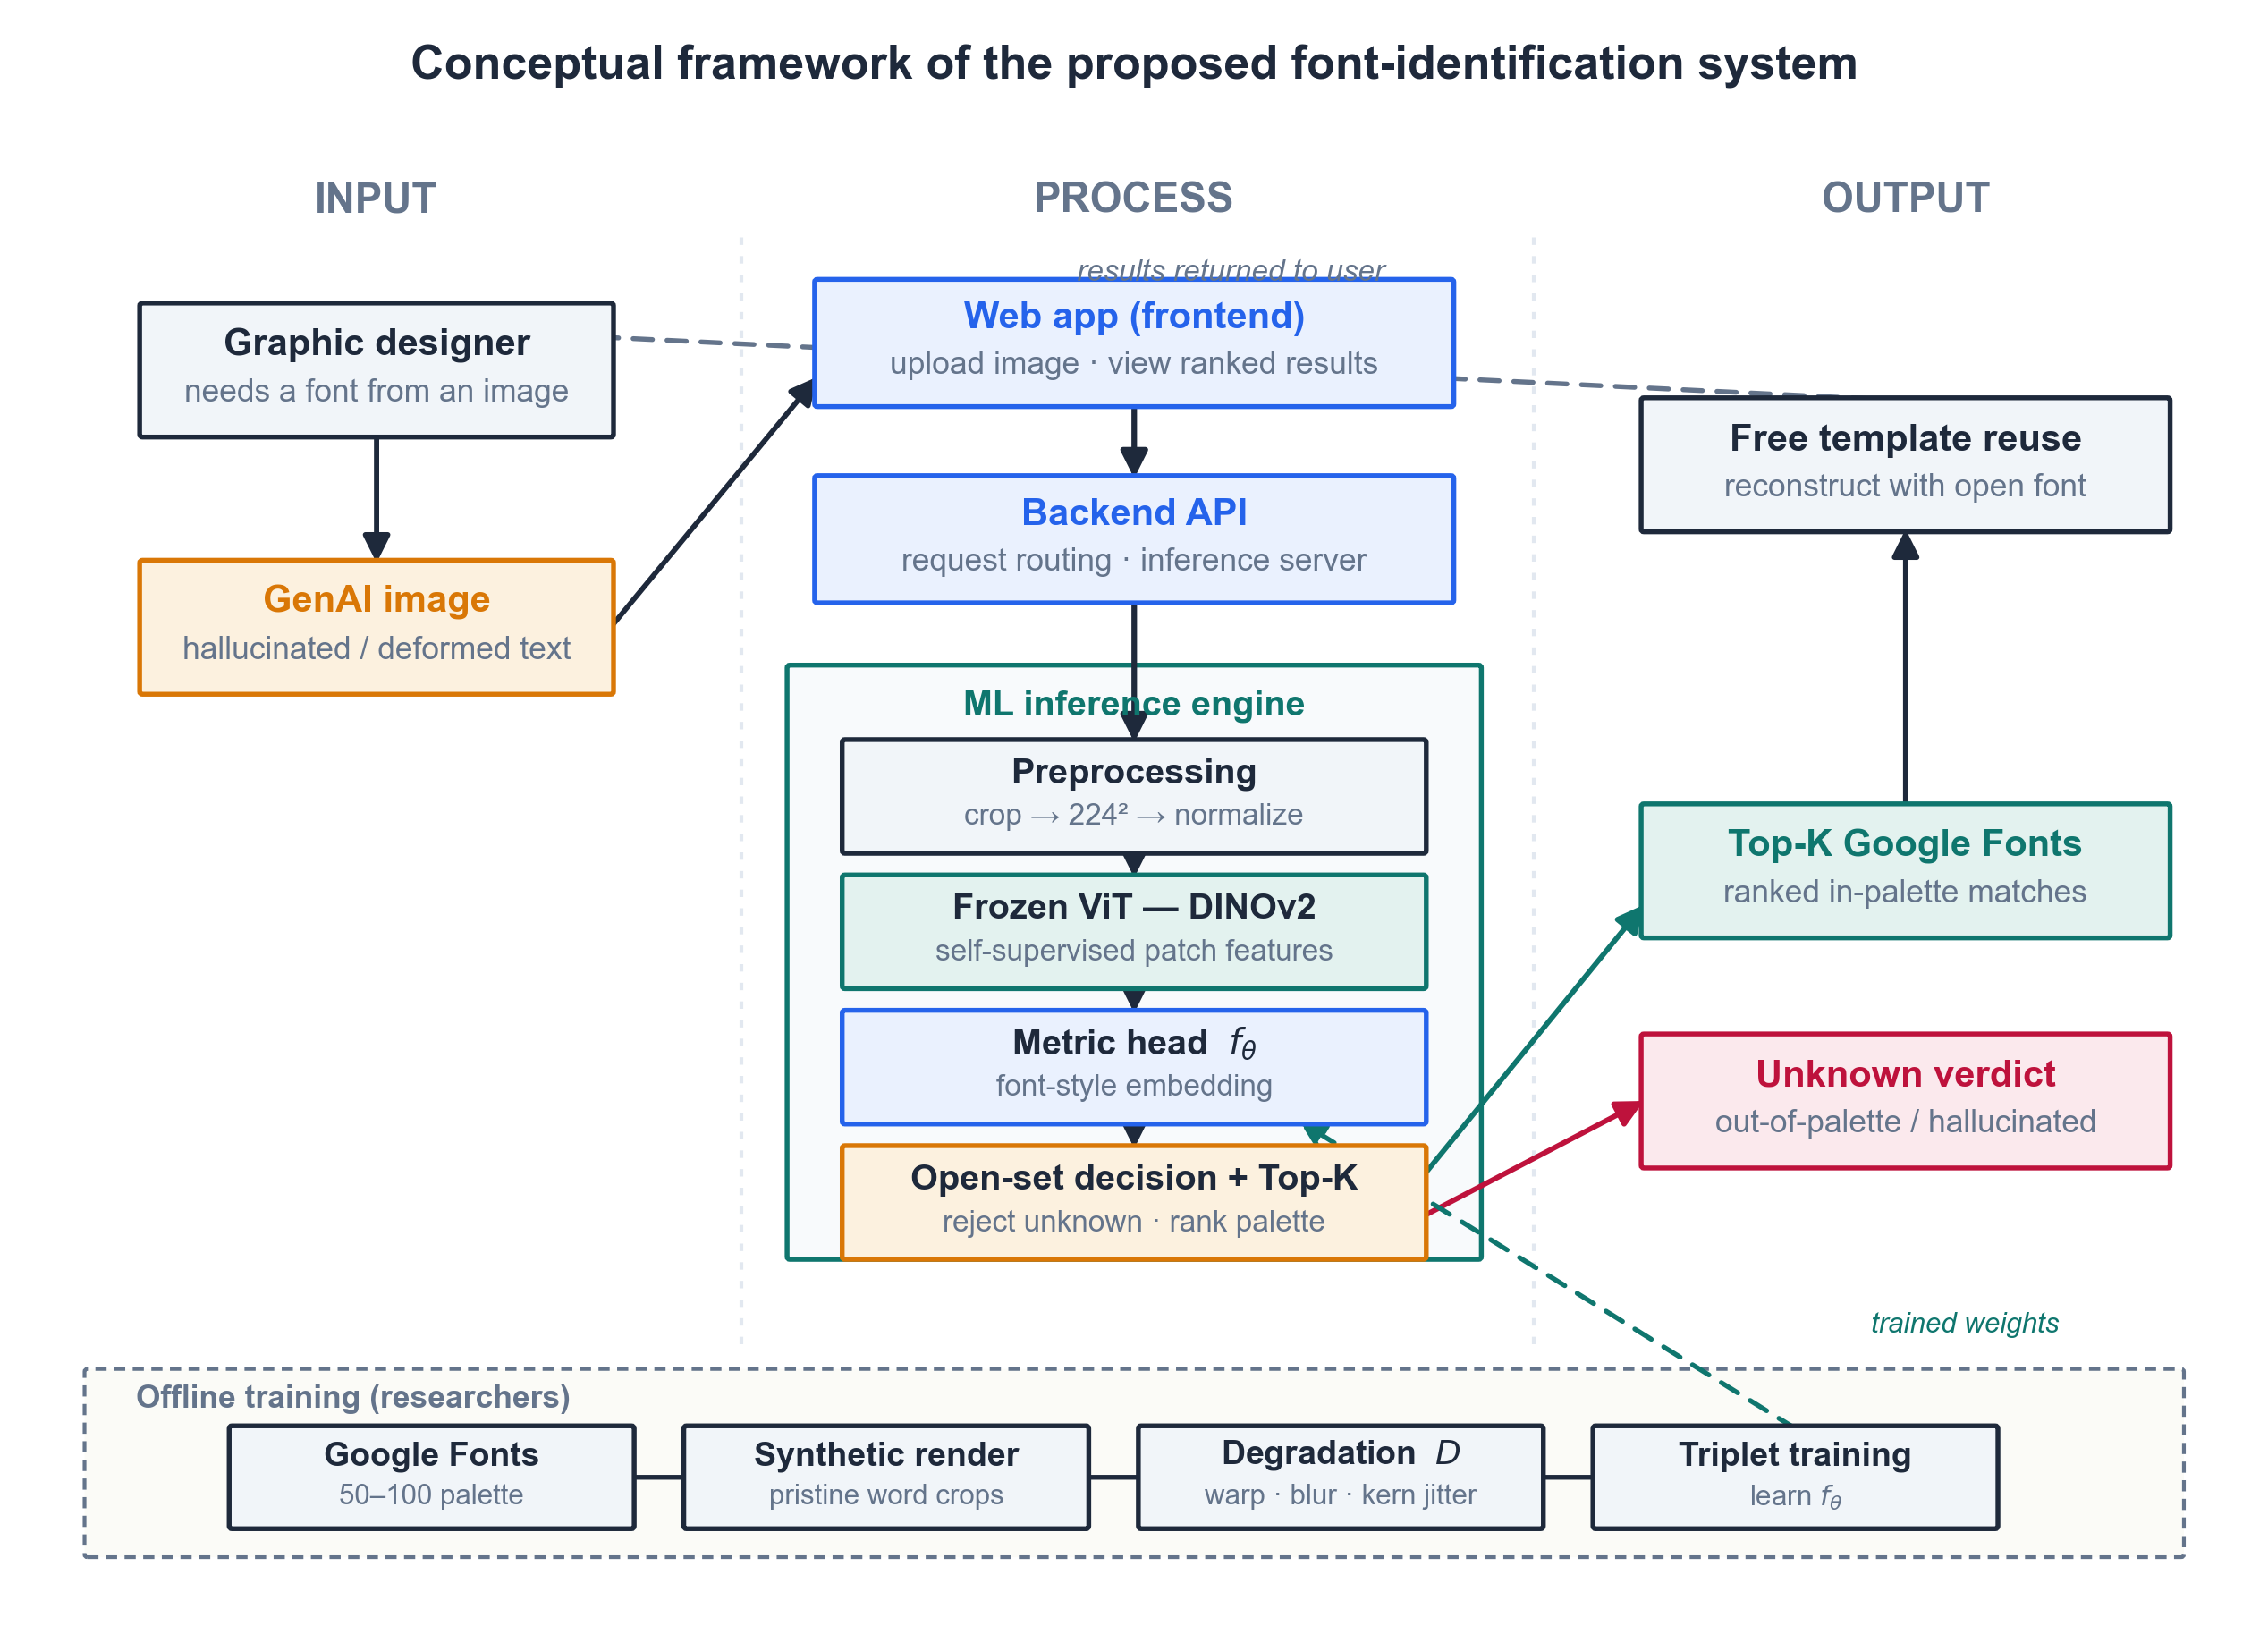
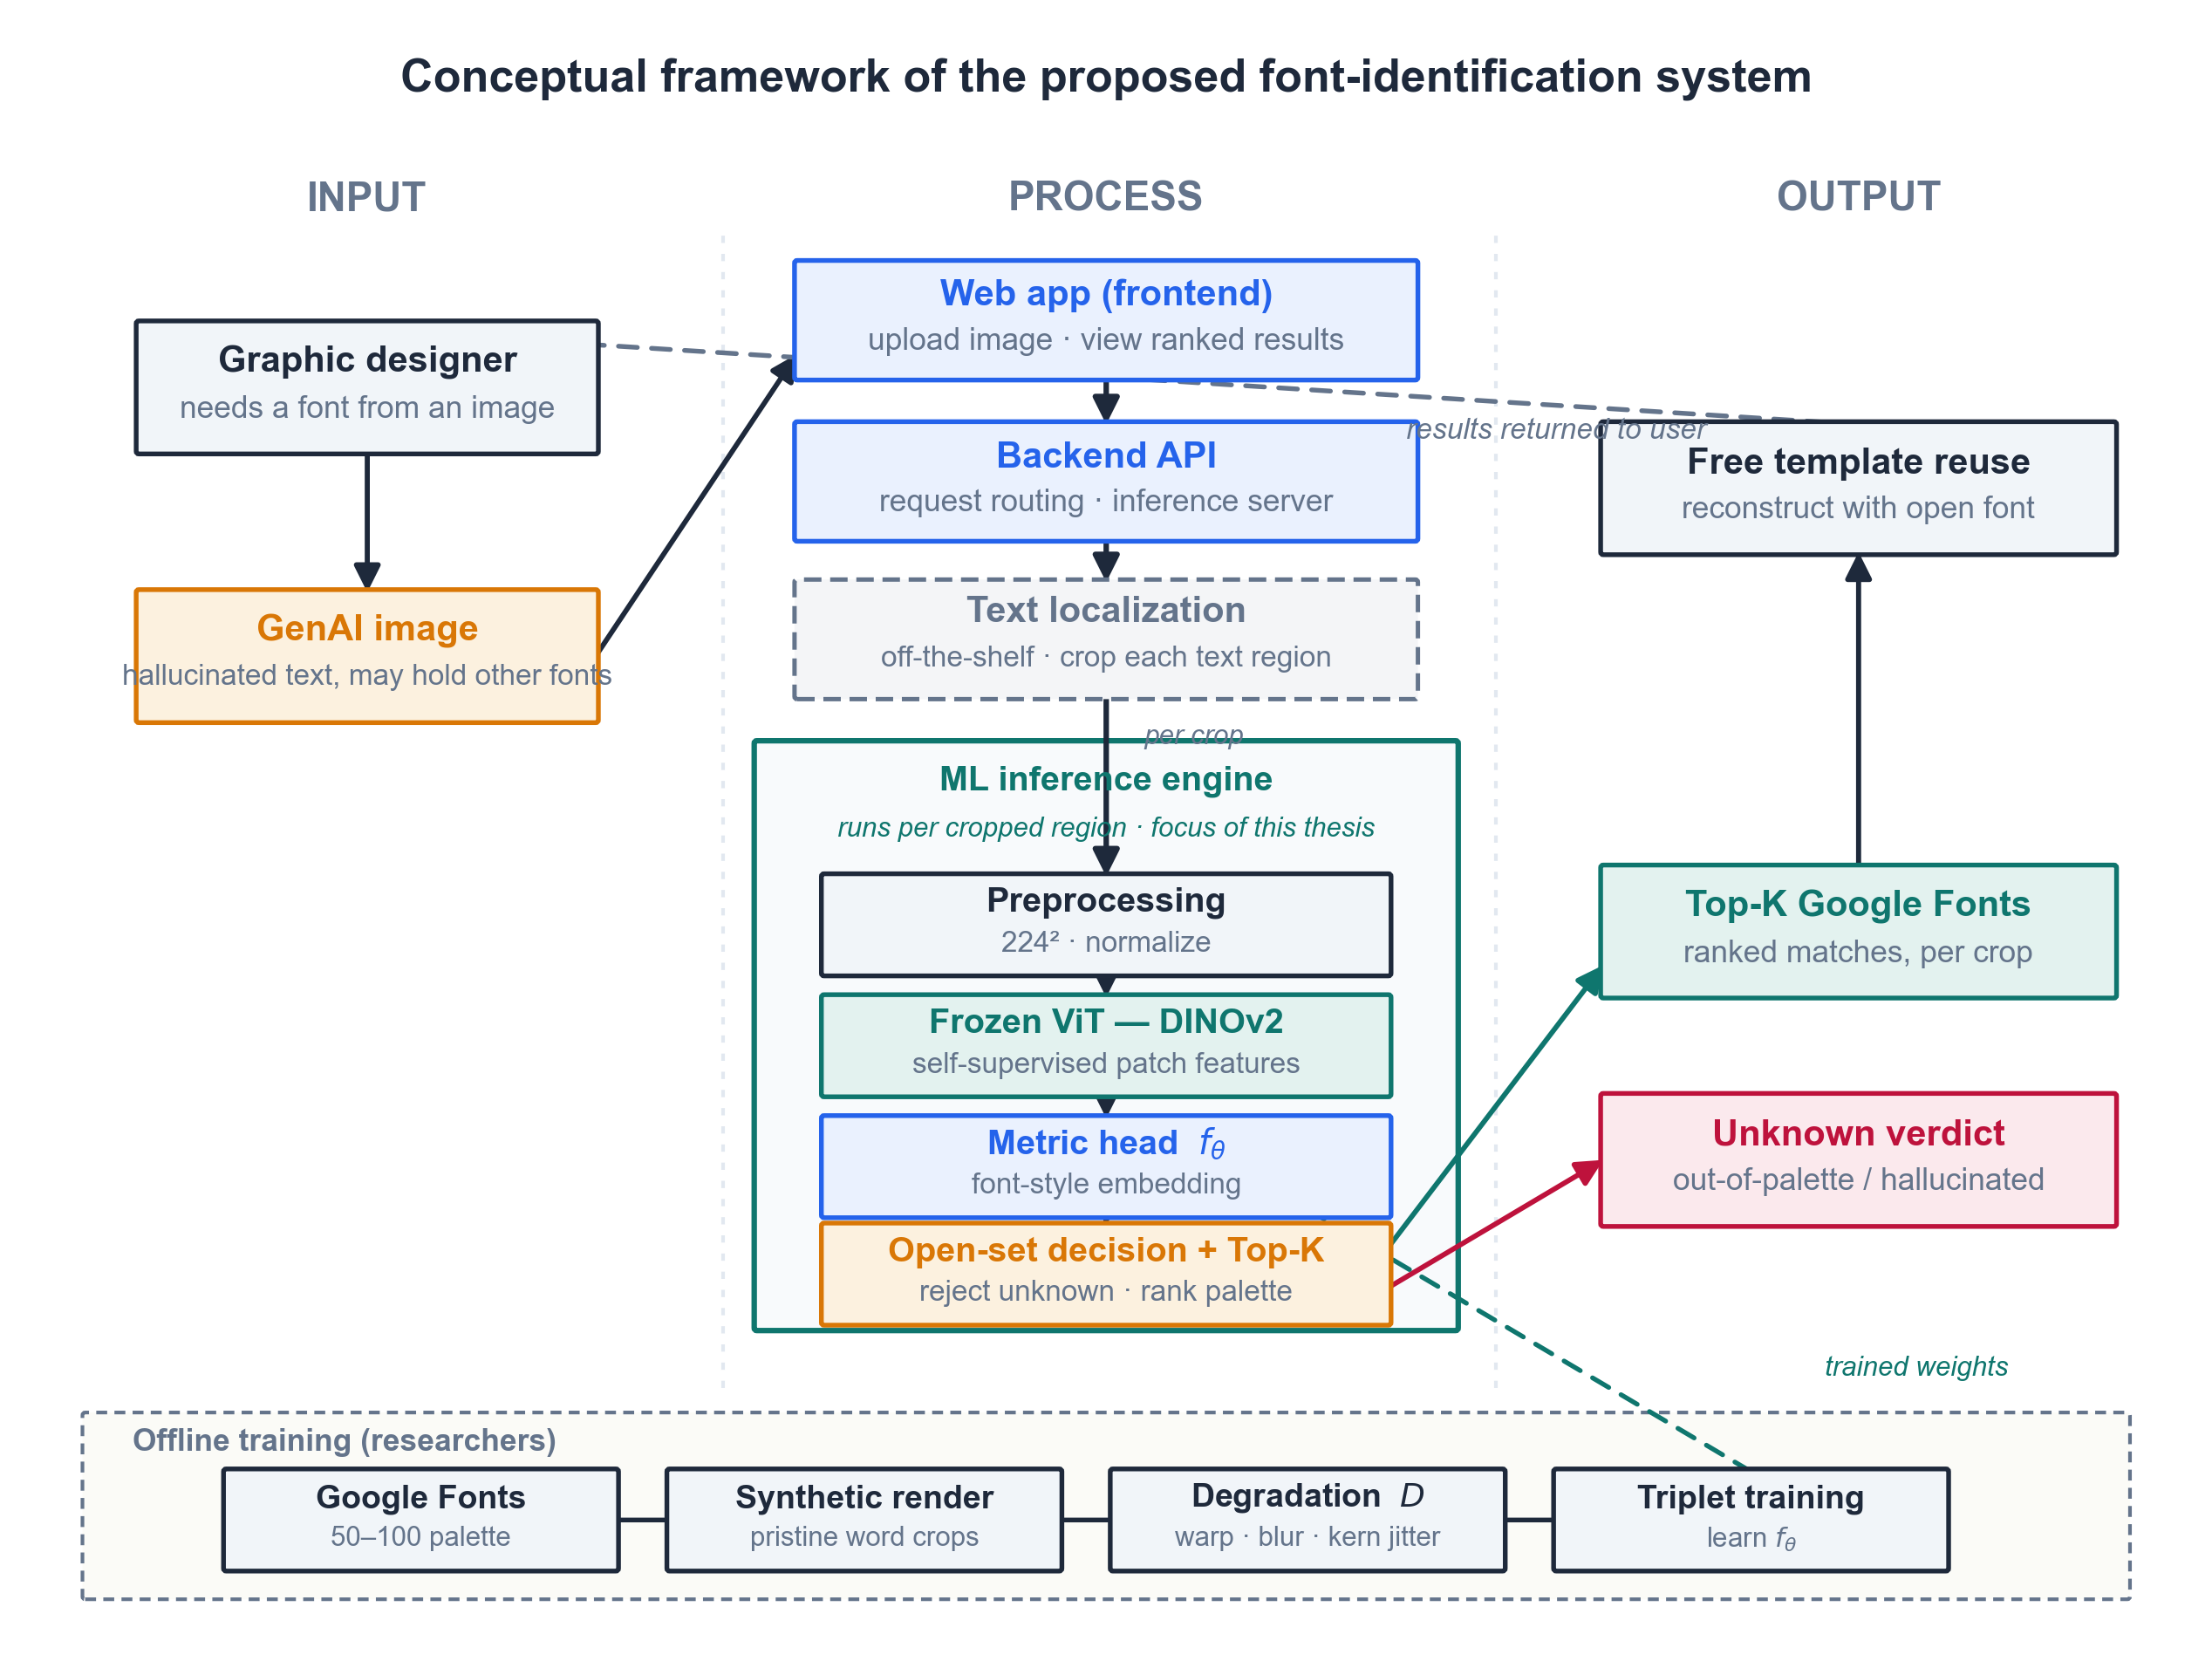
feat(methodology): mention text localization limitations

diff --git a/src/visualization/conceptual_framework.py b/src/visualization/conceptual_framework.py
@@ -1,6 +1,7 @@
 """Figure 8 (Ch4) — Conceptual framework: IPO view of the font-identification
 system and the web app built on top of it. Shows how user, frontend, backend,
-ML inference engine, and the offline synthetic-training subsystem interact.
+off-the-shelf text localization, the ML inference engine (the thesis focus),
+and the offline synthetic-training subsystem interact.
 Pure matplotlib: no Graphviz binary required."""
 import matplotlib.pyplot as plt
 import matplotlib.patches as mpatches
@@ -16,76 +17,90 @@ def _dashed_arrow(ax, p_from, p_to, color):
 
 def create_figure():
     apply_style()
-    fig, ax = plt.subplots(figsize=(10.6, 7.6))
+    fig, ax = plt.subplots(figsize=(10.6, 8.0))
     ax.set_xlim(0, 16)
-    ax.set_ylim(0, 11.6)
+    ax.set_ylim(0, 12.0)
     ax.axis("off")
 
     # ---- Band headers (INPUT / PROCESS / OUTPUT) ----
     for x, label in [(2.5, "INPUT"), (8.0, "PROCESS"), (13.6, "OUTPUT")]:
-        ax.text(x, 10.35, label, ha="center", va="center", fontsize=11,
+        ax.text(x, 10.75, label, ha="center", va="center", fontsize=11,
                 weight="bold", color=COLORS["muted"], zorder=4)
     for x in (5.15, 10.9):
-        ax.plot([x, x], [1.9, 10.15], color=COLORS["grid"], lw=1.0,
+        ax.plot([x, x], [1.9, 10.55], color=COLORS["grid"], lw=1.0,
                 linestyle=(0, (2, 3)), zorder=0)
 
     # ---- INPUT column ----
-    draw_box(ax, 2.5, 9.1, 3.4, 0.95, "Graphic designer",
+    draw_box(ax, 2.5, 9.35, 3.4, 0.95, "Graphic designer",
              "needs a font from an image", fc=COLORS["box"], ec=COLORS["ink"])
-    draw_box(ax, 2.5, 7.2, 3.4, 0.95, "GenAI image",
-             "hallucinated / deformed text", fc=COLORS["orange_bg"],
-             ec=COLORS["orange"], tc=COLORS["orange"])
-    draw_arrow(ax, (2.5, 8.625), (2.5, 7.675), lw=1.4)
+    draw_box(ax, 2.5, 7.35, 3.4, 0.95, "GenAI image",
+             "hallucinated text, may hold other fonts", fc=COLORS["orange_bg"],
+             ec=COLORS["orange"], tc=COLORS["orange"], sub_fs=8)
+    draw_arrow(ax, (2.5, 8.875), (2.5, 7.825), lw=1.4)
 
-    # ---- PROCESS column: web + backend + ML engine ----
-    draw_box(ax, 8.0, 9.3, 4.6, 0.9, "Web app (frontend)",
+    # ---- PROCESS column: web + backend + localization + ML engine ----
+    draw_box(ax, 8.0, 9.85, 4.6, 0.85, "Web app (frontend)",
              "upload image · view ranked results", fc=COLORS["blue_bg"],
              ec=COLORS["blue"], tc=COLORS["blue"])
-    draw_box(ax, 8.0, 7.85, 4.6, 0.9, "Backend API",
+    draw_box(ax, 8.0, 8.65, 4.6, 0.85, "Backend API",
              "request routing · inference server", fc=COLORS["blue_bg"],
              ec=COLORS["blue"], tc=COLORS["blue"])
-
-    # ML inference engine container
+    # Localization: off-the-shelf, NOT the thesis focus (muted, dashed edge)
     ax.add_patch(mpatches.FancyBboxPatch(
-        (5.5, 2.55), 5.0, 4.35, boxstyle="round,pad=0.02",
-        fc="#F8FAFC", ec=COLORS["teal"], lw=1.3, zorder=1))
-    ax.text(8.0, 6.62, "ML inference engine", ha="center", va="center",
+        (5.7, 7.05), 4.6, 0.85, boxstyle="round,pad=0.02",
+        fc="#F4F5F7", ec=COLORS["muted"], lw=1.2, linestyle=(0, (4, 2)), zorder=3))
+    ax.text(8.0, 7.55, "Text localization", ha="center", va="bottom",
+            fontsize=10, weight="bold", color=COLORS["muted"], zorder=4)
+    ax.text(8.0, 7.43, "off-the-shelf · crop each text region", ha="center",
+            va="top", fontsize=8, color=COLORS["muted"], zorder=4)
+
+    # ML inference engine container (the thesis focus)
+    ax.add_patch(mpatches.FancyBboxPatch(
+        (5.4, 2.35), 5.2, 4.35, boxstyle="round,pad=0.02",
+        fc="#F8FAFC", ec=COLORS["teal"], lw=1.5, zorder=1))
+    ax.text(8.0, 6.42, "ML inference engine", ha="center", va="center",
             fontsize=9.5, weight="bold", color=COLORS["teal"], zorder=4)
+    ax.text(8.0, 6.06, "runs per cropped region · focus of this thesis",
+            ha="center", va="center", fontsize=7.5, color=COLORS["teal"],
+            style="italic", zorder=4)
     ml_steps = [
-        (5.95, "Preprocessing", "crop → 224² → normalize", COLORS["box"], COLORS["ink"], None),
-        (4.95, "Frozen ViT — DINOv2", "self-supervised patch features", COLORS["teal_bg"], COLORS["teal"], None),
-        (3.95, "Metric head  $f_\\theta$", "font-style embedding", COLORS["blue_bg"], COLORS["blue"], None),
-        (2.95, "Open-set decision + Top-K", "reject unknown · rank palette", COLORS["orange_bg"], COLORS["orange"], None),
+        (5.35, "Preprocessing", "224² · normalize", COLORS["box"], COLORS["ink"]),
+        (4.45, "Frozen ViT — DINOv2", "self-supervised patch features", COLORS["teal_bg"], COLORS["teal"]),
+        (3.55, "Metric head  $f_\\theta$", "font-style embedding", COLORS["blue_bg"], COLORS["blue"]),
+        (2.75, "Open-set decision + Top-K", "reject unknown · rank palette", COLORS["orange_bg"], COLORS["orange"]),
     ]
-    for cy, t, s, fc, ec, tc in ml_steps:
-        draw_box(ax, 8.0, cy, 4.2, 0.8, t, s, fc=fc, ec=ec, tc=tc, fs=9.5, sub_fs=8)
+    for cy, t, s, fc, ec in ml_steps:
+        draw_box(ax, 8.0, cy, 4.2, 0.72, t, s, fc=fc, ec=ec, tc=ec, fs=9.5, sub_fs=8)
 
     # vertical process arrows
-    draw_arrow(ax, (8.0, 8.85), (8.0, 8.30), lw=1.5)   # frontend -> backend
-    draw_arrow(ax, (8.0, 7.40), (8.0, 6.35), lw=1.5)   # backend -> preprocess
-    for cy_from, cy_to in [(5.55, 5.35), (4.55, 4.35), (3.55, 3.35)]:
+    draw_arrow(ax, (8.0, 9.425), (8.0, 9.075), lw=1.5)   # frontend -> backend
+    draw_arrow(ax, (8.0, 8.225), (8.0, 7.90), lw=1.5)    # backend -> localization
+    draw_arrow(ax, (8.0, 7.05), (8.0, 5.71), lw=1.5)     # localization -> engine
+    ax.text(8.28, 6.75, "per crop", ha="left", va="center", fontsize=7.5,
+            color=COLORS["muted"], style="italic", zorder=4)
+    for cy_from, cy_to in [(4.99, 4.81), (4.09, 3.91), (3.19, 3.11)]:
         draw_arrow(ax, (8.0, cy_from), (8.0, cy_to), lw=1.4)
 
     # input image -> frontend
-    draw_arrow(ax, (4.2, 7.2), (5.7, 9.05), lw=1.4)
+    draw_arrow(ax, (4.2, 7.35), (5.7, 9.6), lw=1.4)
 
     # ---- OUTPUT column ----
-    draw_box(ax, 13.6, 5.4, 3.8, 0.95, "Top-K Google Fonts",
-             "ranked in-palette matches", fc=COLORS["teal_bg"],
+    draw_box(ax, 13.6, 5.3, 3.8, 0.95, "Top-K Google Fonts",
+             "ranked matches, per crop", fc=COLORS["teal_bg"],
              ec=COLORS["teal"], tc=COLORS["teal"])
-    draw_box(ax, 13.6, 3.7, 3.8, 0.95, "Unknown verdict",
+    draw_box(ax, 13.6, 3.6, 3.8, 0.95, "Unknown verdict",
              "out-of-palette / hallucinated", fc=COLORS["rose_bg"],
              ec=COLORS["rose"], tc=COLORS["rose"])
-    draw_box(ax, 13.6, 8.4, 3.8, 0.95, "Free template reuse",
+    draw_box(ax, 13.6, 8.6, 3.8, 0.95, "Free template reuse",
              "reconstruct with open font", fc=COLORS["box"], ec=COLORS["ink"])
 
     # decision -> outputs
-    draw_arrow(ax, (10.1, 3.15), (11.7, 5.15), lw=1.4, color=COLORS["teal"])
-    draw_arrow(ax, (10.1, 2.85), (11.7, 3.7), lw=1.4, color=COLORS["rose"])
+    draw_arrow(ax, (10.1, 2.95), (11.7, 5.05), lw=1.4, color=COLORS["teal"])
+    draw_arrow(ax, (10.1, 2.65), (11.7, 3.6), lw=1.4, color=COLORS["rose"])
     # shortlist -> template reuse -> back to designer (feedback)
-    draw_arrow(ax, (13.6, 5.875), (13.6, 7.925), lw=1.4)
-    _dashed_arrow(ax, (13.6, 8.875), (4.0, 9.35), COLORS["muted"])
-    ax.text(8.7, 9.72, "results returned to user", ha="center", va="bottom",
+    draw_arrow(ax, (13.6, 5.775), (13.6, 8.125), lw=1.4)
+    _dashed_arrow(ax, (13.6, 9.075), (4.0, 9.68), COLORS["muted"])
+    ax.text(11.35, 9.02, "results returned to user", ha="center", va="center",
             fontsize=8, color=COLORS["muted"], style="italic")
 
     # ---- Offline training subsystem (bottom band) ----
@@ -106,11 +121,11 @@ def create_figure():
     for cx in (4.35, 7.65, 10.95):
         draw_arrow(ax, (cx, 0.92), (cx + 0.9, 0.92), lw=1.3)
     # trained weights feed the frozen encoder + head (dashed up)
-    _dashed_arrow(ax, (12.8, 1.28), (9.2, 3.55), COLORS["teal"])
+    _dashed_arrow(ax, (12.8, 1.28), (9.3, 3.35), COLORS["teal"])
     ax.text(13.35, 2.05, "trained weights", ha="left", va="center",
             fontsize=7.5, color=COLORS["teal"], style="italic")
 
-    ax.text(8.0, 11.25, "Conceptual framework of the proposed font-identification system",
+    ax.text(8.0, 11.55, "Conceptual framework of the proposed font-identification system",
             fontsize=12.5, weight="bold", ha="center", color=COLORS["ink"])
 
     save_figure(fig, "conceptual_framework")

diff --git a/chapters/04-methodology/4.4-concept/draft.md b/chapters/04-methodology/4.4-concept/draft.md
@@ -6,15 +6,15 @@ The system is a font-identification service for hallucinated type. Given a fragm
 
 ### 4.4.2 Conceptual Framework
 
-The framework follows an input-process-output (IPO) structure, shown in Figure 8. The input is a graphic designer and the generative-AI image they supply, whose text is probabilistically deformed. The process is a three-layer stack: a web-app frontend that accepts the upload and displays results, a backend API that routes the request, and the ML inference engine that does the recognition. Inside the engine, the crop is preprocessed, encoded by a frozen DINOv2 Vision Transformer, projected by the metric head $f_\theta$ into a font-style embedding, and passed to the open-set decision that either rejects the crop as unknown or ranks the palette. The output is a Top-K Google Fonts shortlist, or an unknown verdict, returned to the designer, who uses it for free template reuse. A separate offline subsystem, the researchers' synthetic rendering, degradation, and triplet-training pipeline, produces the trained weights the engine loads, and appears as the lower band feeding the encoder and head.
+The framework follows an input-process-output (IPO) structure, shown in Figure 8. The input is a graphic designer and the generative-AI image they supply. That image is a full scene, not a pre-cut crop: its text is probabilistically deformed, and it may hold several text regions, some set in fonts outside the palette. The process moves through four steps. A web-app frontend accepts the upload and displays results, a backend API routes the request, and an off-the-shelf text localizer isolates and crops each text region. Every crop is then passed independently to the ML inference engine, which performs the recognition that is the focus of this thesis. The localizer is a standard component and not a contribution of this work; the unit of analysis is the isolated crop, as stated in Section 4.1. Inside the engine, a crop is preprocessed, encoded by a frozen DINOv2 Vision Transformer, projected by the metric head $f_\theta$ into a font-style embedding, and passed to the open-set decision that either rejects the crop as unknown or ranks the palette. Because the engine runs per crop, an image with several text regions produces one Top-K Google Fonts shortlist, or one unknown verdict, per region, and the results return to the designer for free template reuse. A separate offline subsystem, the researchers' synthetic rendering, degradation, and triplet-training pipeline, produces the trained weights the engine loads, and appears as the lower band feeding the encoder and head.
 
 **Figure 8**
 
 *Conceptual Framework of the Proposed Font-Identification System*
 
-![Input-process-output diagram showing a graphic designer and GenAI image feeding a web-app frontend, backend API, and ML inference engine (preprocessing, frozen DINOv2 encoder, metric head, open-set decision), producing a Top-K Google Fonts shortlist or unknown verdict, with an offline synthetic-training subsystem supplying the model weights](../../../assets/figures/conceptual_framework.png)
+![Input-process-output diagram showing a graphic designer and GenAI image feeding a web-app frontend, a backend API, an off-the-shelf text localizer that crops each text region, and the ML inference engine (preprocessing, frozen DINOv2 encoder, metric head, open-set decision) run per crop, producing a Top-K Google Fonts shortlist or unknown verdict per region, with an offline synthetic-training subsystem supplying the model weights](../../../assets/figures/conceptual_framework.png)
 
-As shown in Figure 8, the runtime path (designer to frontend to backend to inference engine to shortlist) is cleanly separated from the offline training path (Google Fonts to synthetic render to degradation to triplet training). The two meet at a single point: the trained weights loaded by the frozen encoder and metric head. This separation is what lets the same model serve real-time web requests while remaining fully reproducible from the researcher-controlled data pipeline.
+As shown in Figure 8, the runtime path (designer to frontend to backend to localizer to inference engine to shortlist) is cleanly separated from the offline training path (Google Fonts to synthetic render to degradation to triplet training). The two meet at a single point: the trained weights loaded by the frozen encoder and metric head. The localizer sits before the engine as a replaceable off-the-shelf stage, which keeps the thesis focused on the recognition that follows it. This separation is what lets the same model serve real-time web requests while remaining fully reproducible from the researcher-controlled data pipeline.
 
 ### 4.4.3 Value Proposition
 
@@ -22,4 +22,4 @@ The design suits its problem for three reasons. It is open-set: unlike a closed-
 
 ### 4.4.4 High-Level Operational Logic
 
-From the user's side the interaction is simple. A designer opens the web application, uploads a generative-AI image containing text, and waits a moment while the system isolates the text crop and runs it through the inference engine. The application then displays a short, ranked list of candidate Google Fonts, each shown as a rendered preview, or an "unknown" message when the system judges the glyph to fall outside its palette. The designer picks the closest match and reuses it directly in their own document. The user needs no knowledge of embeddings, thresholds, or the training pipeline; the technical machinery of Sections 4.2 and 4.3 stays hidden behind a single upload-and-review interaction.
+From the user's side the interaction is simple. A designer opens the web application, uploads a generative-AI image containing text, and waits a moment while the system localizes and crops the text regions and runs each crop through the inference engine. For every detected region the application displays a short, ranked list of candidate Google Fonts, each shown as a rendered preview, or an "unknown" message when the system judges the glyph to fall outside its palette. The designer picks the closest match and reuses it directly in their own document. The user needs no knowledge of embeddings, thresholds, or the training pipeline; the technical machinery of Sections 4.2 and 4.3 stays hidden behind a single upload-and-review interaction.

diff --git a/chapters/04-methodology/4.1-research-environment-and-respondents/draft.md b/chapters/04-methodology/4.1-research-environment-and-respondents/draft.md
@@ -18,4 +18,6 @@ Because the data concern non-human objects, there are no human respondents in th
 
 2. **Rendered text-crop images.** From each font the pipeline renders pristine word crops and then applies the algorithmic degradation operator of Section 3.2.3 to produce hallucinated variants. These grayscale image crops (standardized to a fixed input resolution, detailed in Section 4.3.1) are the individual "profiles" the model actually consumes; each degraded crop is an instance whose ground-truth label is the font it was rendered from.
 
+The **unit of analysis is the isolated text crop**, not the full image. A real deployment receives a whole generative-AI image, which may contain several text regions in different fonts, so an upstream step must first locate and crop each region. That localization is handled by a standard off-the-shelf text detector and is treated as a delimitation rather than a contribution: this study does not train, tune, or evaluate the localizer, and it reports no detection metrics. Every crop the localizer emits is classified independently by the recognition engine, which is where the thesis's contribution lies. Fixing the crop as the unit of analysis keeps the dataset, the metrics of Section 4.2, and the human-proxy baseline all defined at the same level.
+
 A small human element enters only at the evaluation stage, and strictly as a benchmark rather than a training population: a three-person consensus panel establishes a human-proxy ground truth over a held-out set of 100 actual generative-AI image text boxes. This panel provides the accuracy floor against which the automated system is compared (elaborated in Section 4.10); its composition and screening criteria are specified there. Apart from this proxy panel, the study's respondents are entirely typographic artifacts.